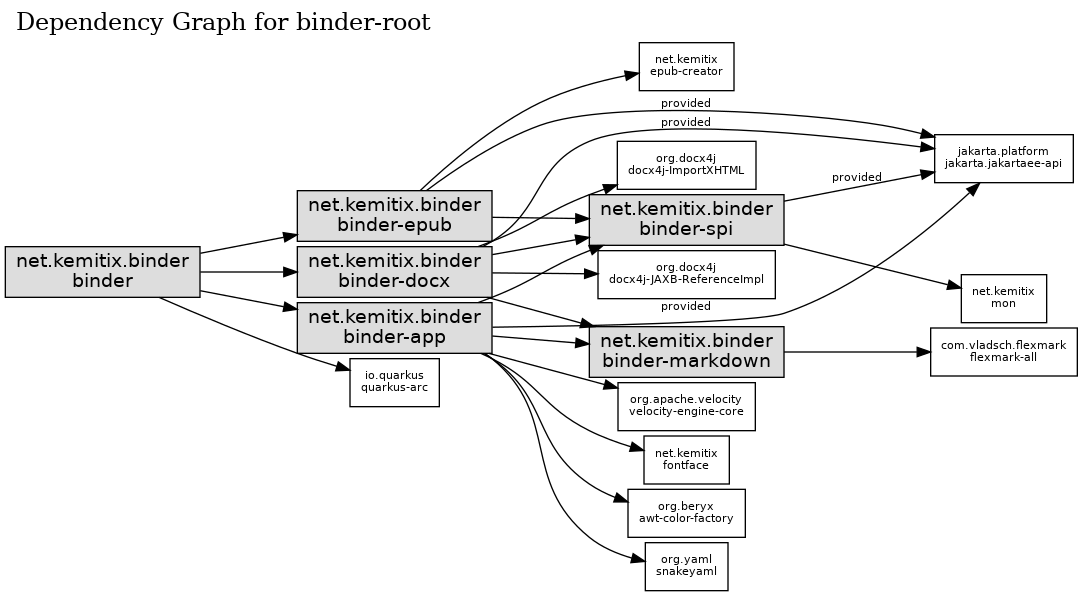
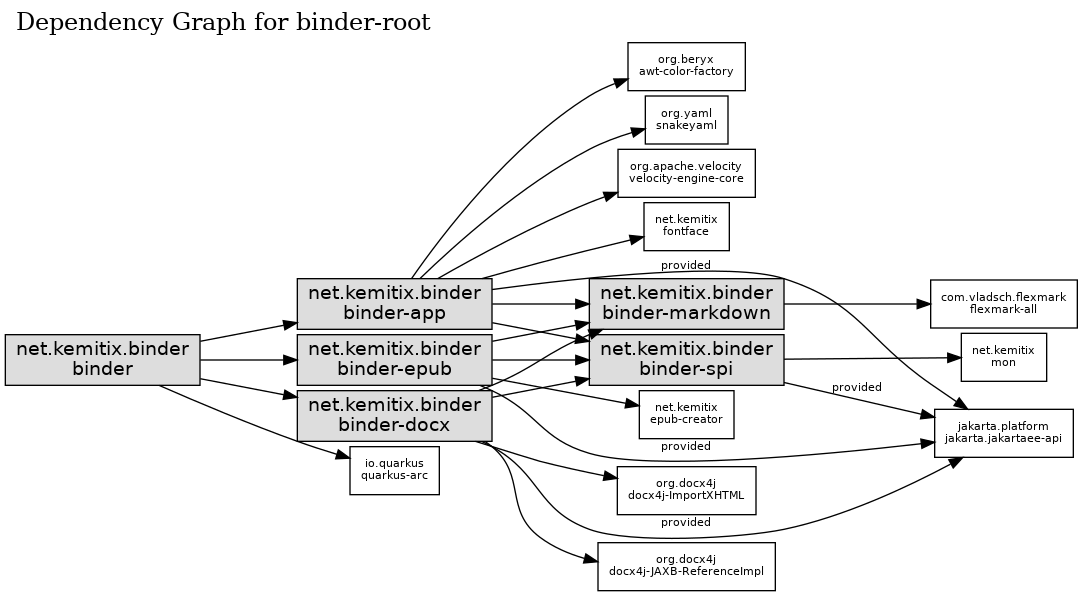
Switch to MarkdownEpubRenderer

diff --git a/binder-epub/src/main/java/net/kemitix/binder/epub/mdconvert/MarkdownEPubRenderer.java b/binder-epub/src/main/java/net/kemitix/binder/epub/mdconvert/MarkdownEPubRenderer.java
@@ -1,0 +1,39 @@
+package net.kemitix.binder.epub.mdconvert;
+
+import coza.opencollab.epub.creator.model.Content;
+import net.kemitix.binder.epub.EpubRenderer;
+import net.kemitix.binder.markdown.MarkdownConverter;
+import net.kemitix.binder.spi.HtmlSection;
+import net.kemitix.binder.spi.Section;
+
+import javax.enterprise.context.ApplicationScoped;
+import javax.inject.Inject;
+
+@EPub
+@ApplicationScoped
+public class MarkdownEPubRenderer
+        implements EpubRenderer {
+
+    private final MarkdownConverter converter;
+
+    @Inject
+    public MarkdownEPubRenderer(
+            @EPub MarkdownConverter converter
+    ) {
+        this.converter = converter;
+    }
+
+    @Override
+    public boolean canHandle(String type) {
+        return "html".equals(type)
+                || "story".equals(type);
+    }
+
+    @Override
+    public Content render(HtmlSection source) {
+        Object[] converted = converter.convert(source.getMarkdown());
+        return ((Content) converted[0]);
+    }
+
+
+}

diff --git a/binder-docx/src/main/java/net/kemitix/binder/docx/mdconvert/MarkdownDocxRenderer.java b/binder-docx/src/main/java/net/kemitix/binder/docx/mdconvert/MarkdownDocxRenderer.java
@@ -4,8 +4,6 @@ import net.kemitix.binder.docx.DocxContent;
 import net.kemitix.binder.docx.DocxFacade;
 import net.kemitix.binder.docx.DocxImageFacade;
 import net.kemitix.binder.docx.DocxRenderer;
-import net.kemitix.binder.docx.mdconvert.Docx;
-import net.kemitix.binder.docx.mdconvert.MarkdownDocxConverter;
 import net.kemitix.binder.markdown.MarkdownConverter;
 import net.kemitix.binder.spi.FontSize;
 import net.kemitix.binder.spi.Section;
@@ -36,7 +34,6 @@ public class MarkdownDocxRenderer
         this.docxImage = docxImage;
         this.converter = converter;
     }
-
 
     @Override
     public boolean canHandle(String type) {

diff --git a/binder-epub/src/main/java/net/kemitix/binder/epub/EpubSectionRenderer.java b/binder-epub/src/main/java/net/kemitix/binder/epub/EpubSectionRenderer.java
@@ -2,6 +2,7 @@ package net.kemitix.binder.epub;
 
 import coza.opencollab.epub.creator.model.Content;
 import lombok.extern.java.Log;
+import net.kemitix.binder.epub.mdconvert.EPub;
 import net.kemitix.binder.spi.AggregateRenderer;
 import net.kemitix.binder.spi.HtmlSection;
 
@@ -18,7 +19,7 @@ public class EpubSectionRenderer
 
     @Inject
     public EpubSectionRenderer(
-            Instance<EpubRenderer> epubRenderers
+            @EPub Instance<EpubRenderer> epubRenderers
     ) {
         this.epubRenderers = epubRenderers;
     }

diff --git a/binder-epub/src/main/java/net/kemitix/binder/epub/TocEpubRenderer.java b/binder-epub/src/main/java/net/kemitix/binder/epub/TocEpubRenderer.java
@@ -2,6 +2,7 @@ package net.kemitix.binder.epub;
 
 import coza.opencollab.epub.creator.model.Content;
 import lombok.extern.java.Log;
+import net.kemitix.binder.epub.mdconvert.EPub;
 import net.kemitix.binder.spi.AggregateRenderer;
 import net.kemitix.binder.spi.HtmlManuscript;
 import net.kemitix.binder.spi.HtmlSection;
@@ -11,6 +12,7 @@ import javax.enterprise.inject.Instance;
 import javax.inject.Inject;
 
 @Log
+@EPub
 @ApplicationScoped
 public class TocEpubRenderer
         implements EpubRenderer,
